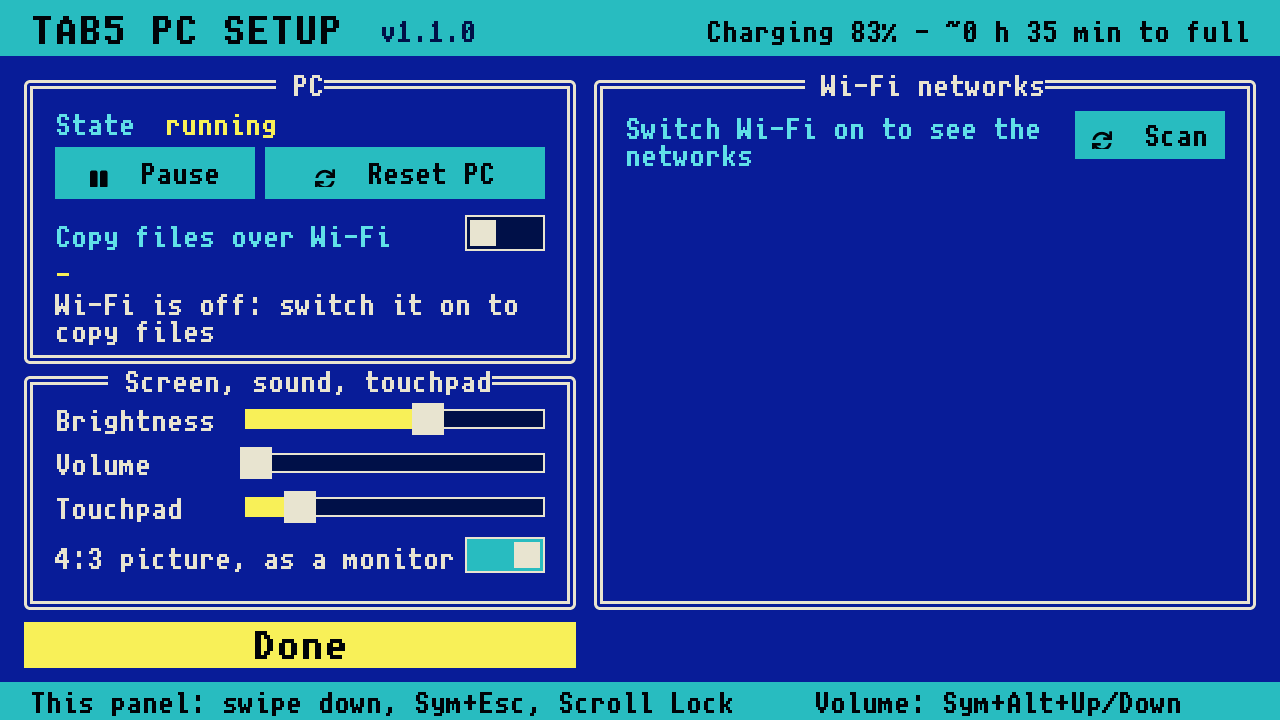
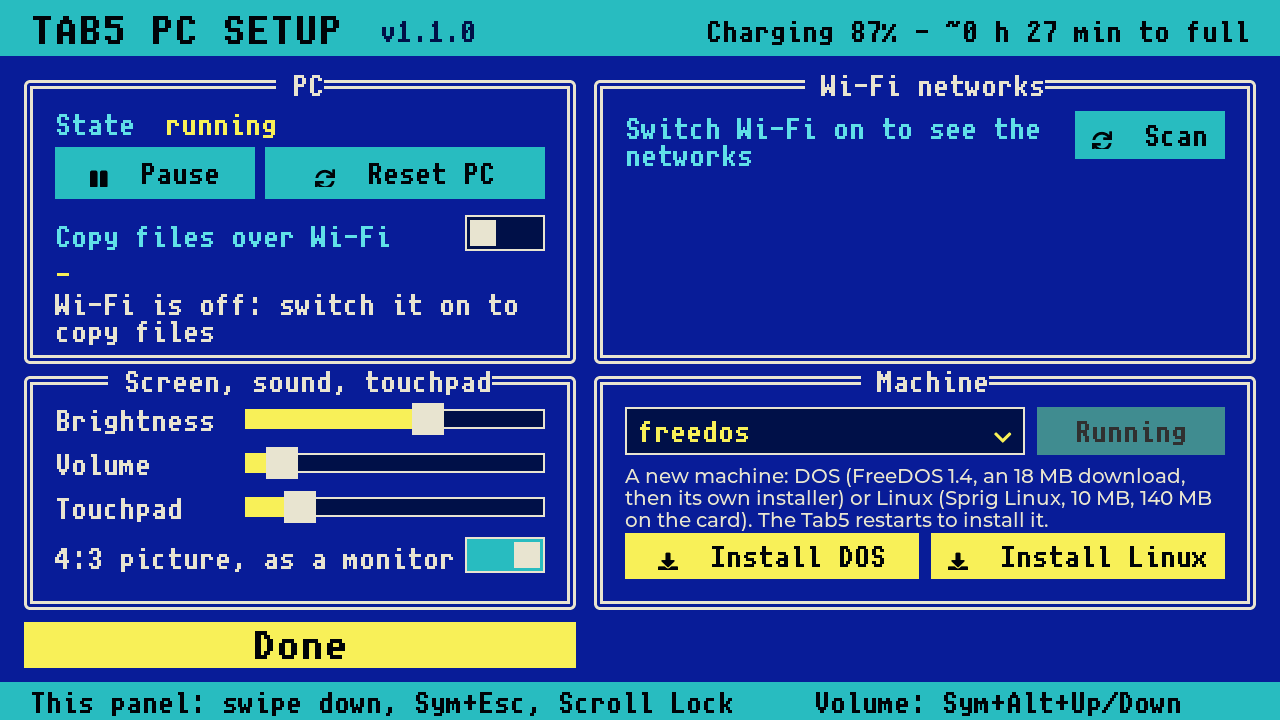
README: the settings panel with its Machine frame
A new screenshot of the panel, and the machine to start or install in
the list of what it does.

diff --git a/README.md b/README.md
@@ -186,8 +186,9 @@ today's web needs HTTPS, which these programs don't do.
 
 **The settings panel** (swipe down from the top edge, Sym + Esc, or Scroll Lock; Done or Esc closes it): pause or
 reset the PC (reset asks for a second tap), Wi-Fi for copying files and the network list, brightness, volume, the
-touchpad's speed, and the picture's shape: 4:3 as on a monitor (text and 320 x 200 graphics stretched to the full
-height, the default), or square pixels (sharper, wider). The top right shows the battery. While the panel is open the PC keeps running.
+touchpad's speed, the picture's shape: 4:3 as on a monitor (text and 320 x 200 graphics stretched to the full
+height, the default), or square pixels (sharper, wider), and the machine to start or install
+([More machines](#more-machines-dos-and-linux-side-by-side)). The top right shows the battery. While the panel is open the PC keeps running.
 
 ![The settings panel](docs/images/panel.png)
 
